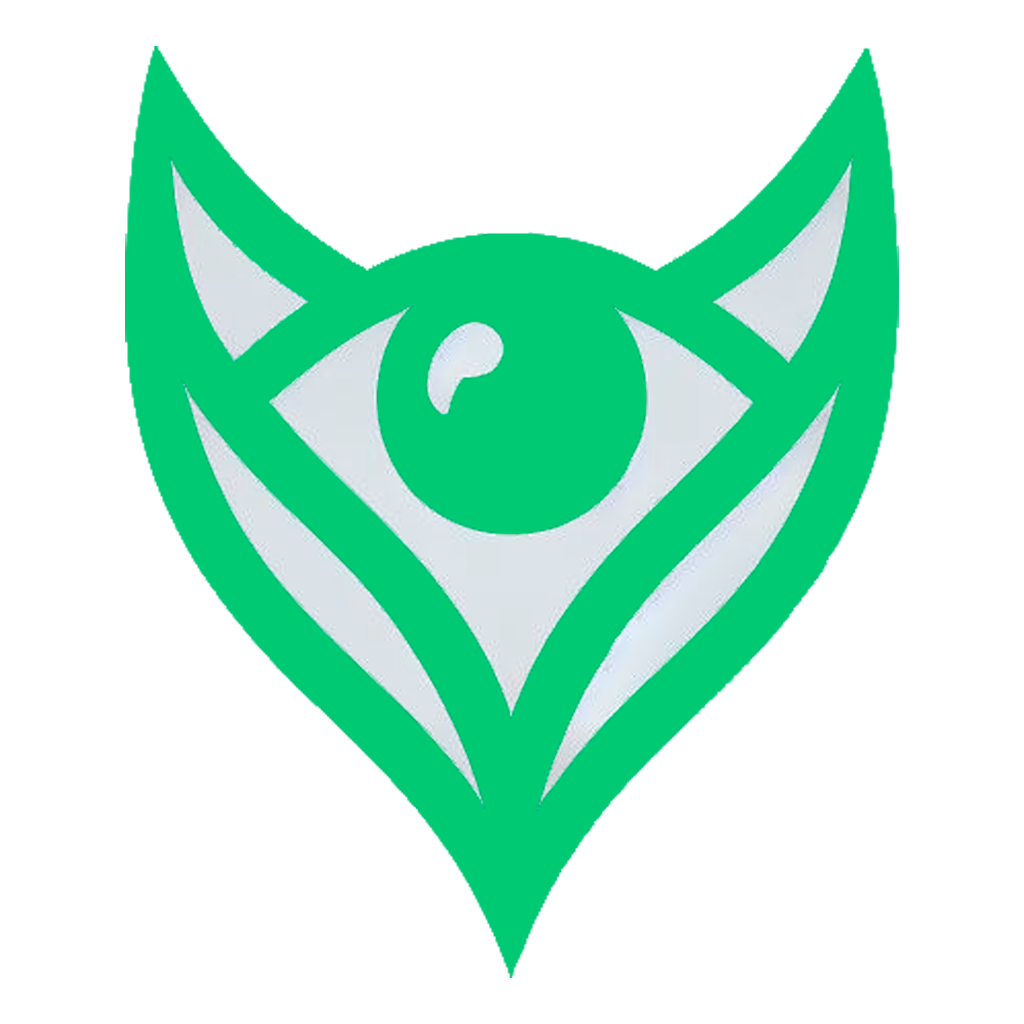
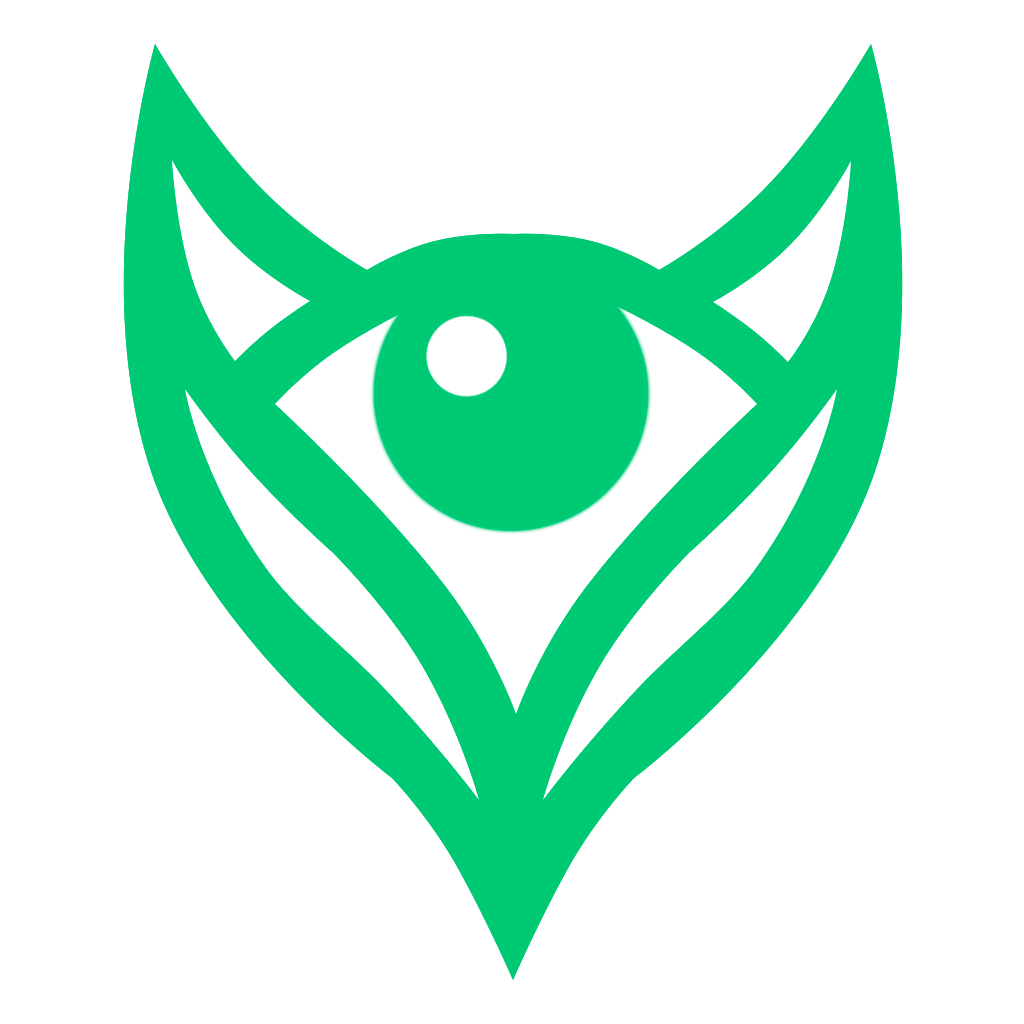
updated assets

diff --git a/src/app/index.tsx b/src/app/index.tsx
@@ -1,9 +1,8 @@
-import MiniPhotoCard from "@/components/cards/MiniPhotoCard";
 import { useSession } from "@/context/ctx";
 import AsyncStorage from "@react-native-async-storage/async-storage";
 import { router } from "expo-router";
 import { useEffect } from "react";
-import { View, Text, ActivityIndicator } from "react-native";
+import { ActivityIndicator, ImageBackground } from "react-native";
 
 const index = () => {
   const { loading, session } = useSession();
@@ -23,17 +22,23 @@ const index = () => {
   }, [loading, session]);
 
   return (
-    <View
+    <ImageBackground
+      source={require("root/assets/images/splash.png")}
       style={{
         flex: 1,
         justifyContent: "center",
         alignItems: "center",
         backgroundColor: "#fff",
-        gap: 40,
       }}
     >
-      <ActivityIndicator size="large" color="#51C878" />
-    </View>
+      <ActivityIndicator
+        size="large"
+        color="#51c878"
+        style={{
+          marginTop: 400,
+        }}
+      />
+    </ImageBackground>
   );
 };
 export default index;

diff --git a/src/context/ctx.tsx b/src/context/ctx.tsx
@@ -72,7 +72,7 @@ export function SessionProvider(props: React.PropsWithChildren) {
         // console.log("Usuario en firebase: ", finalUser);
         setSession(finalUser);
         await AsyncStorage.setItem("@user", JSON.stringify(finalUser));
-        router.replace("/(main)/home");
+        // router.replace("/(main)/home");
       } else {
         setSession(null);
       }

diff --git a/src/utils/handleNotifications.ts b/src/utils/handleNotifications.ts
@@ -10,7 +10,7 @@ import dayjs from "dayjs";
 export const checkNotification = async () => {
   const notificationStatus = await AsyncStorage.getItem("@notificationId");
 
-  // For debugging purposes
+  //For debugging purposes
   // notifee
   //   .getTriggerNotificationIds()
   //   .then((ids) => console.log("All trigger notifications: ", ids));

diff --git a/README.md b/README.md
@@ -15,12 +15,9 @@ Una app para android realizada con React Native y Expo, permite establecer un ob
 
 ## TODO:
 
-- [x] Skeletons
 - [ ] Permitir ver el resultado final
 - [ ] Pantalla de perfil
 - [ ] Pantalla de ajustes
-- [ ] Splash screen
 - [ ] Implementar un sistema de recompensas
 - [ ] Implementar suscripcion
 - [ ] Dividir funciones premium y gratuitas
-- [/] Crear logo
